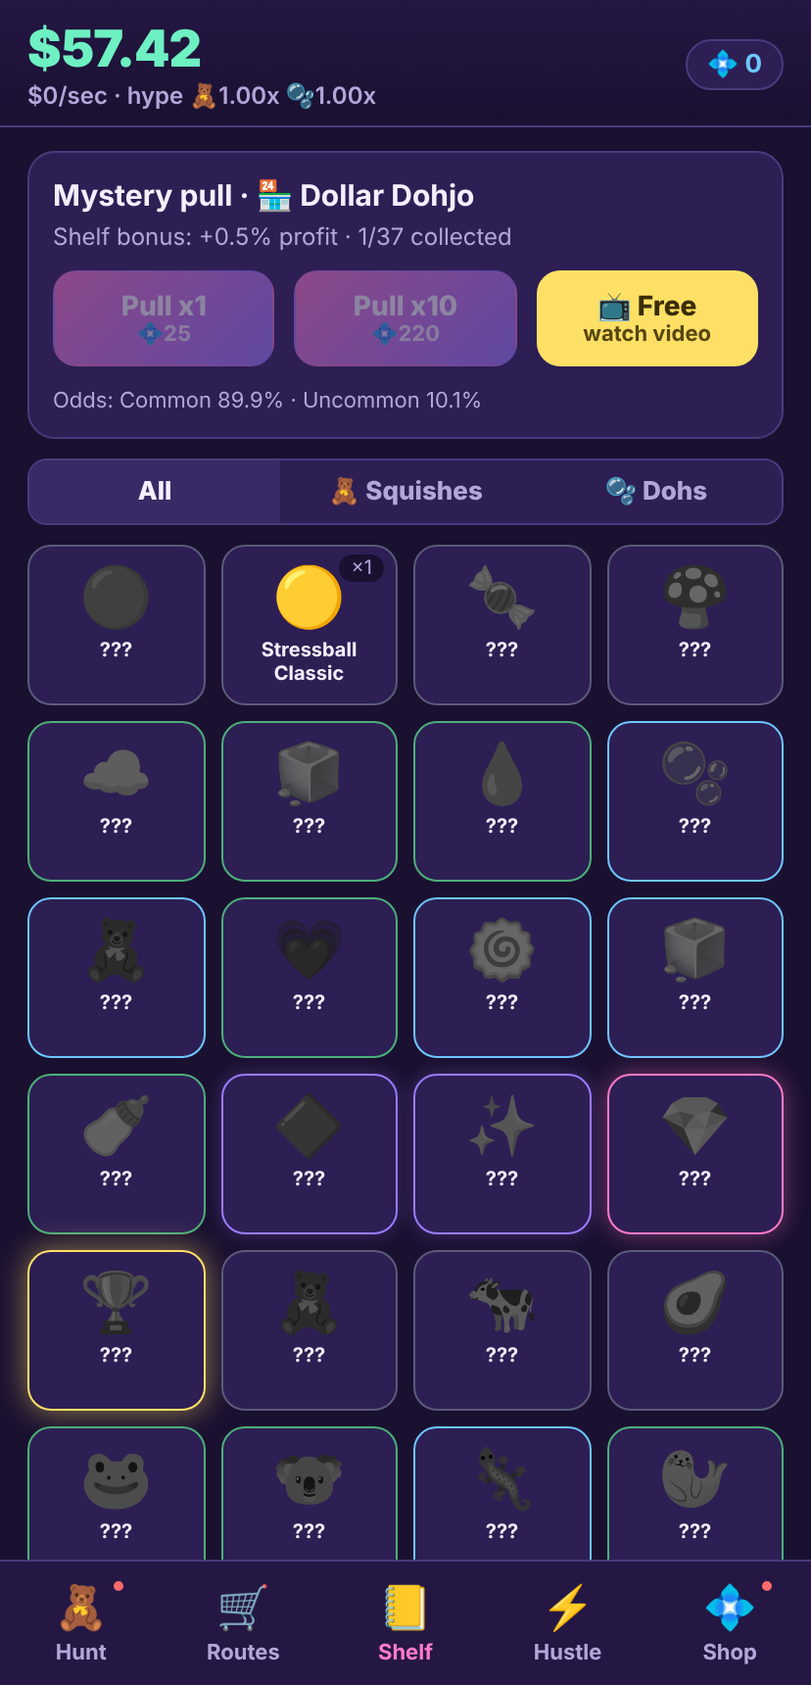
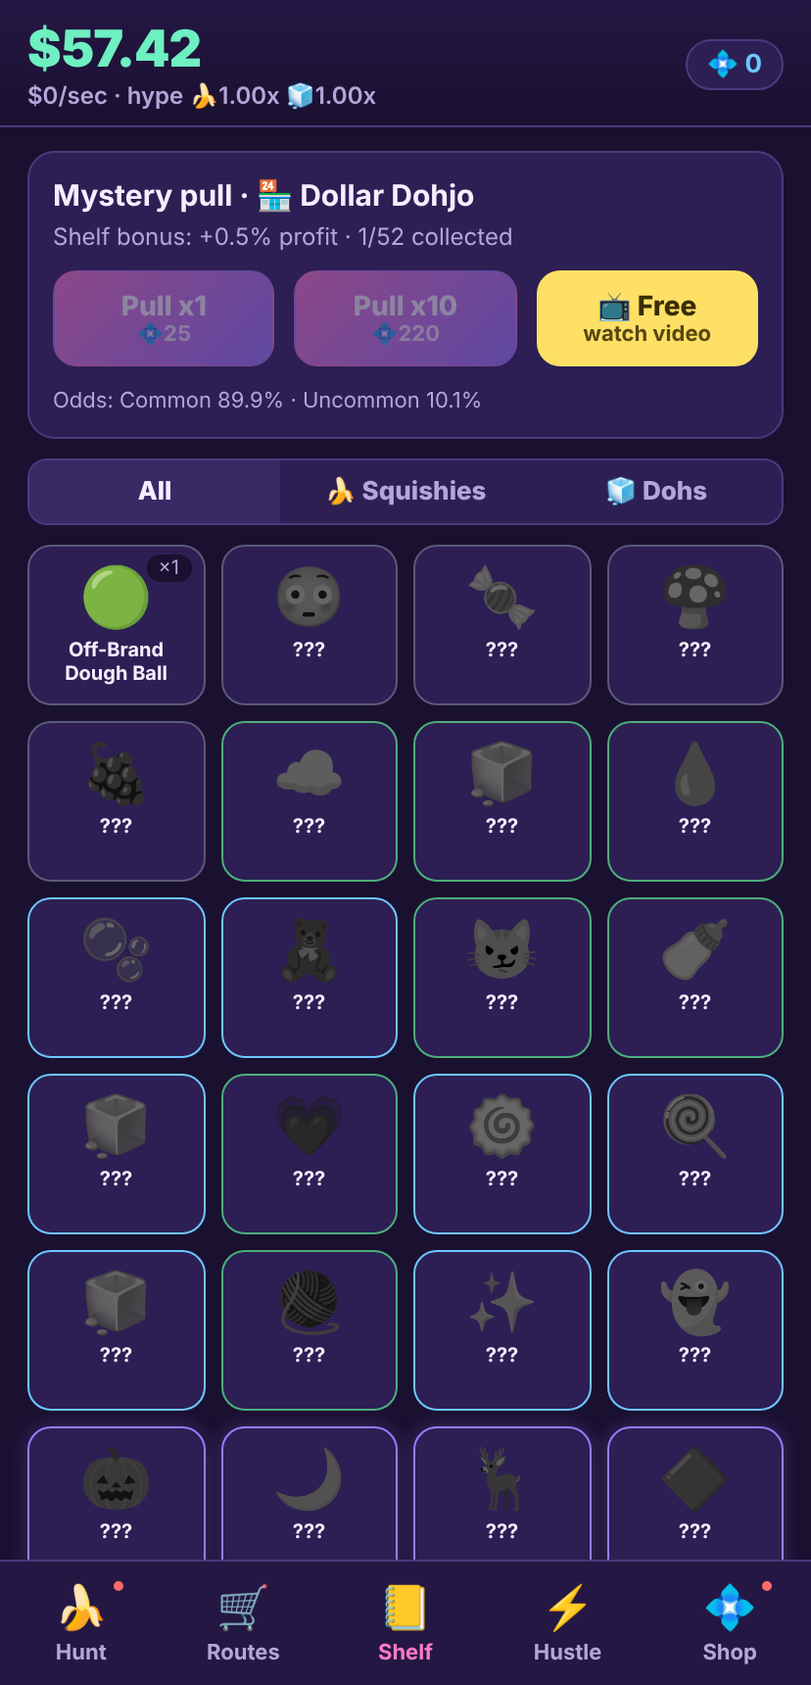
Scalp Street: make every item a squeezy fidget (dohs and squishies)
Replace the plush half of the catalog with the slow-rise and jumbo squeezy
toys of 2026: the viral 14 to 17 inch bananas, cheese cubes, butter sticks,
blind-box dumplings, mochi minis, Smusher sets, and expand the doh family
with the real lineup parodies including the Needohween and Squishmas
drops. 52 items total. Update store taglines, event copy, icons, docs and
tests to match.

Claude-Session: https://claude.ai/code/session_01MZnGvyVSyAsA5yFMotXPV8

diff --git a/scalp-street/src/engine/data/items.ts b/scalp-street/src/engine/data/items.ts
@@ -7,9 +7,13 @@ export const RARITY_LABEL: Record<Rarity, string> = {
   uncommon: 'Uncommon',
   rare: 'Rare',
   ultra: 'Ultra Rare',
-  select: 'Select Series',
+  select: 'Limited Run',
   grail: 'Grail',
 };
+
+/** Display names for the two product families. */
+export const FAMILY_LABEL = { squish: 'Squishies', doh: 'Dohs' } as const;
+export const FAMILY_ICON = { squish: '🍌', doh: '🧊' } as const;
 
 /** Shelf bonus: each unique item owned adds this % to global profit. */
 export const RARITY_SHELF_BONUS: Record<Rarity, number> = {
@@ -22,71 +26,75 @@ export const RARITY_SHELF_BONUS: Record<Rarity, number> = {
 };
 
 const squish = (
-  id: string,
-  name: string,
-  rarity: Rarity,
-  icon: string,
-  retail: number,
-  resaleMult: number,
-  storeId: string,
-  blurb: string,
+  id: string, name: string, rarity: Rarity, icon: string, retail: number, resaleMult: number, storeId: string, blurb: string,
 ): ItemDef => ({ id, name, family: 'squish', rarity, icon, retail, resaleMult, storeId, blurb });
 
 const doh = (
-  id: string,
-  name: string,
-  rarity: Rarity,
-  icon: string,
-  retail: number,
-  resaleMult: number,
-  storeId: string,
-  blurb: string,
+  id: string, name: string, rarity: Rarity, icon: string, retail: number, resaleMult: number, storeId: string, blurb: string,
 ): ItemDef => ({ id, name, family: 'doh', rarity, icon, retail, resaleMult, storeId, blurb });
 
-// Item names are affectionate parodies of real squish plush and doh fidget
-// lines. Resale multipliers follow the real secondary market research:
-// commons move near retail, grails go 50-500x.
+// Two families of squeezable fidgets, both affectionate parodies of real
+// lines. Dohs are the stretchy-dough globs and cubes that caused the 2026
+// shortage. Squishies are the slow-rise and jumbo squeezy toys: the viral
+// 14 to 17 inch bananas, cheese cubes, butter sticks, blind-box dumplings,
+// mochi minis and the sold-out Smusher sets. Resale multipliers follow the
+// research: commons move near retail, grails go 50x to 300x.
 export const ITEMS: ItemDef[] = [
-  // ---- Dohs (fidget squeezies) ----
-  doh('doh_generic', 'Off-Brand Squeezie', 'common', '🟢', 1, 0.8, 'dollar', 'It leaks. It is sticky. It is one dollar.'),
-  doh('doh_stressball', 'Stressball Classic', 'common', '🟡', 2, 1.1, 'dollar', 'The one from the dentist\'s office.'),
+  // ---- Dohs (stretchy dough globs and cubes) ----
+  doh('doh_generic', 'Off-Brand Dough Ball', 'common', '🟢', 1, 0.8, 'dollar', 'It leaks. It is sticky. It is one dollar.'),
+  doh('doh_panic', 'Panic Pete', 'common', '😳', 3, 1.2, 'dollar', 'Squeeze him and his eyes pop out. Relatable.'),
   doh('doh_gumdrop', 'Gumdrop', 'common', '🍬', 6, 1.5, 'fiveunder', 'Translucent, jiggly, and gone from every shelf in the county.'),
   doh('doh_shroom', 'Groovy Shroom', 'common', '🍄', 5, 1.4, 'fiveunder', 'Squeeze it and it mushrooms. Literally.'),
+  doh('doh_fruit', 'Groovy Fruit', 'common', '🍇', 5, 1.3, 'fiveunder', 'A grape that stretches to your elbow.'),
   doh('doh_cloud', 'Cloud Pleaser', 'uncommon', '☁', 6, 2.0, 'fiveunder', 'Soft like a cloud. Rare like a parking spot on Drop Day.'),
   doh('doh_kube', 'Nice Kube', 'uncommon', '🧊', 6, 3.0, 'fiveunder', 'The cube that started the shortage. 2 per family limit.'),
   doh('doh_dreamdrip', 'Dream Drip', 'uncommon', '💧', 6, 2.8, 'fiveunder', 'Shaped like a drip. Priced like a dream on resale.'),
   doh('doh_glob', 'Groovy Glob', 'rare', '🫧', 7, 3.5, 'wallymart', 'A glob with attitude. Sells in nine seconds.'),
   doh('doh_gummie', 'Gummie Bear', 'rare', '🧸', 7, 3.2, 'wallymart', 'Bear-shaped, bear-market proof.'),
-  doh('doh_heart', 'Color Change Heart', 'uncommon', '💗', 5, 2.2, 'hallmarq', 'Warms in your hand. Cools in a scalper\'s cart.'),
-  doh('doh_swirl', 'Candy Swirl Kube', 'rare', '🍥', 8, 5.0, 'hallmarq', 'Only the card shop gets these. Only you know that.'),
-  doh('doh_berg', 'Nice Burg', 'rare', '🧊', 13, 3.0, 'hallmarq', 'The big cube. Titanic demand.'),
+  doh('doh_coolkat', 'Groovy Cool Kat', 'uncommon', '😼', 6, 2.4, 'wallymart', 'Sunglasses on a dough cat. Peak 2026.'),
   doh('doh_teenie', 'Teenie Ice Baby', 'uncommon', '🍼', 8, 2.5, 'wallymart', 'Half the size, all of the hype.'),
+  doh('doh_iceb', 'Nice Ice Baby', 'rare', '🧊', 8, 3.4, 'wallymart', 'Semi-transparent. Stretches. Always bounces back. Unlike your bank account.'),
+  doh('doh_heart', 'Color Change Heart', 'uncommon', '💗', 5, 2.2, 'hallmarq', 'Warms in your hand. Cools in a scalper\'s cart.'),
+  doh('doh_swirl', 'Nice Kube Swirl', 'rare', '🍥', 8, 5.0, 'hallmarq', 'Only the card shop gets these. Only you know that.'),
+  doh('doh_candy', 'Candy Swirl Kube', 'rare', '🍭', 8, 5.5, 'hallmarq', 'Spotted at the card shop with a 2-per-person sign taped to the bin.'),
+  doh('doh_berg', 'Nice Burg', 'rare', '🧊', 13, 3.0, 'hallmarq', 'The jumbo cube. Titanic demand.'),
+  doh('doh_knitten', 'Knitten', 'uncommon', '🧶', 7, 2.6, 'hallmarq', 'A dough kitten in a Christmas sweater. Squishmas exclusive.'),
+  doh('doh_glitter', 'Glitter Kube', 'rare', '✨', 8, 4.0, 'wholesale', 'Sparkles when squeezed. Also when listed.'),
+  doh('doh_ghost', 'Glowy Ghost', 'rare', '👻', 7, 4.5, 'wholesale', 'Needohween drop. Glows. Haunts your inventory spreadsheet.'),
+  doh('doh_lantern', 'Jack-Glow-Lantern', 'ultra', '🎃', 8, 7.0, 'wholesale', 'Seasonal, glow in the dark, sold out before October.'),
+  doh('doh_glow', 'Glow Glob', 'ultra', '🌙', 9, 9.0, 'claw', 'Glows in the dark, like your resale listings at 3am.'),
+  doh('doh_reindeer', 'Squisher the Reindeer', 'ultra', '🦌', 9, 8.0, 'claw', 'Squishmas 2026. Red nose, zero restocks.'),
   doh('doh_superkube', 'Super Nice Kube', 'ultra', '🔷', 15, 8.0, 'botfarm', 'Limited run. Serial numbered. Already in a bot cart.'),
-  doh('doh_glow', 'Glow Glob', 'ultra', '✨', 9, 9.0, 'claw', 'Glows in the dark, like your resale listings at 3am.'),
+  doh('doh_snowglobe', 'Dough Snow Globe', 'select', '🔮', 12, 20.0, 'botfarm', 'A snow globe you can squeeze. Online-only. Carted in 0.4 seconds.'),
+  doh('doh_advent', 'Squish-O-Ween Countdown', 'select', '📅', 30, 15.0, 'con', '24 doors of dough. Scalpers open door one and relist the rest.'),
   doh('doh_holo', 'Holo Kube', 'select', '💎', 12, 25.0, 'con', 'Convention exclusive. 500 made. 499 flipped.'),
   doh('doh_proto', 'Prototype Kube', 'grail', '🏆', 6, 150.0, 'factory', 'Never released. Walked out of the factory in a coat pocket.'),
 
-  // ---- Squishes (plush) ----
-  squish('sq_knockoff', 'Mystery Bin Plush', 'common', '🧸', 5, 0.9, 'dollar', 'Nobody knows what animal it is.'),
-  squish('sq_pattie', 'Pattie the Cow', 'common', '🐄', 12, 1.3, 'bullseye', 'The entry-level cow. Everyone has her. Everyone still buys her.'),
-  squish('sq_ava', 'Ava the Avocado', 'common', '🥑', 12, 1.2, 'bullseye', 'Half fruit, half pillow, all shelf-filler.'),
-  squish('sq_mal', 'Mal the Frog', 'uncommon', '🐸', 15, 1.8, 'bullseye', 'Green. Round. Endcap bait.'),
-  squish('sq_kam', 'Kam the Koala', 'uncommon', '🐨', 15, 2.0, 'bullseye', 'Ultra chill. Ultra listed on resale.'),
-  squish('sq_archie', 'Archie the Axolotl', 'rare', '🦎', 20, 3.0, 'bullseye', 'Pink. Smiling. The face that launched a thousand ISO posts.'),
-  squish('sq_bubba', 'Bubba the Sea Lion', 'uncommon', '🦭', 15, 2.1, 'wallymart', 'Barks when squeezed. Not really. But imagine.'),
-  squish('sq_wisterria', 'Wisterria the Cow', 'rare', '🌸', 25, 4.0, 'wallymart', 'Periwinkle, floral belly, sold out in an hour. The spring grail.'),
-  squish('sq_lamb', 'Metallic-Ear Lamb', 'rare', '🐑', 25, 3.8, 'wallymart', 'Pastel lamb. Metallic ears. Pharmacy exclusive.'),
-  squish('sq_jumbo', '16-inch Floral Belly', 'rare', '🌼', 40, 2.8, 'wholesale', 'Takes up the whole back seat. Worth it.'),
-  squish('sq_pallet', '24-inch Pallet Squish', 'ultra', '🛏', 70, 3.5, 'wholesale', 'Bigger than a toddler. Ships worse than a fridge.'),
-  squish('sq_clipon', 'Clip-On Egg Squish', 'uncommon', '🥚', 8, 2.4, 'wholesale', 'Keychain-sized. Fits in a jacket. Very fits in a jacket.'),
-  squish('sq_fanya', 'Fanya the Purple Owl', 'ultra', '🦉', 15, 60.0, 'claw', 'Once hit $2,999 at auction. Then they re-released her. Oof.'),
-  squish('sq_claw', 'Claw Prize Axolotl', 'rare', '🎀', 10, 4.5, 'claw', 'Only drops from the claw. The claw is a liar.'),
-  squish('sq_lullabi', 'Lullabi the Hummingbird', 'ultra', '🐦', 25, 12.0, 'botfarm', 'Online-only spring exclusive. Carted in 0.4 seconds.'),
-  squish('sq_bibi', 'Bibi the Pastel Bunny', 'rare', '🐰', 20, 5.0, 'botfarm', '12-inch Easter line. Gone before the eggs.'),
-  squish('sq_founder', 'Founders Edition Cat', 'select', '🐈', 30, 80.0, 'con', 'Numbered. Tagged. Sealed in a bag you refuse to open.'),
-  squish('sq_jax', 'Jax the Black Cat', 'grail', '🐈⬛', 20, 125.0, 'con', '500 made. The one. The grail. Tag intact or it didn\'t happen.'),
-  squish('sq_jsk', 'JSK the Cat', 'grail', '👑', 20, 335.0, 'factory', 'Highest confirmed sale ever. Six figures of clout.'),
-  squish('sq_sample', 'Factory Sample Cow', 'select', '🏷', 12, 90.0, 'factory', 'Pre-production. Tag says SAMPLE. Buyers say YES.'),
+  // ---- Squishies (slow-rise and jumbo squeezies) ----
+  squish('sq_mochi', 'Mochi Mini', 'common', '🍡', 0.3, 1.0, 'dollar', 'Thirty for eight bucks. Lose twenty-nine in the couch.'),
+  squish('sq_stress', 'Smiley Stress Ball', 'common', '🙂', 2, 1.1, 'dollar', 'The one from the dentist\'s office.'),
+  squish('sq_butter', 'Butter Stick Slow-Rise', 'common', '🧈', 5, 1.5, 'fiveunder', 'Press it flat. Watch it ooze back. Repeat for six hours.'),
+  squish('sq_cheese', 'Cheeze Kube', 'uncommon', '🧀', 6, 2.4, 'fiveunder', 'Climbing the charts while the dohs are sold out. Holes included.'),
+  squish('sq_dumpling', 'Blind-Box Dumpling', 'uncommon', '🥟', 5, 2.8, 'fiveunder', 'Comes in a tiny steamer. You will buy the whole case for the chase.'),
+  squish('sq_toast', 'Slow-Rise Toast', 'common', '🍞', 6, 1.4, 'bullseye', 'Smells like vanilla. Tastes like regret. Do not eat.'),
+  squish('sq_avocado', 'Avocado Squeezy', 'uncommon', '🥑', 8, 1.9, 'bullseye', 'Half fruit, half stress relief, all shelf filler.'),
+  squish('sq_nana', 'Jumbo Squeezy Nana', 'rare', '🍌', 13, 1.8, 'bullseye', 'Fourteen inches of banana weirdness. Blame the algorithm.'),
+  squish('sq_laffy', 'Laffy Snack Nana', 'rare', '🍌', 15, 2.2, 'wallymart', 'The 17-inch one. "Sold out on TikTok" is part of the listing title now.'),
+  squish('sq_taba', 'Taba Pillow Squish', 'uncommon', '🫧', 9, 2.0, 'wallymart', 'Pillowy. Zero resistance. The doh alternative for soft people.'),
+  squish('sq_megaball', 'Mega Squeezy Ball (Silver)', 'ultra', '🪩', 20, 4.5, 'wallymart', 'Mega. Huge. Sealed. Silver. Rare, allegedly.'),
+  squish('sq_strawb', 'Strawberry Mochi Jumbo', 'uncommon', '🍓', 10, 2.0, 'wholesale', 'Mochi, but the size of your head.'),
+  squish('sq_nana17', '17-inch Smush Nana', 'ultra', '🍌', 25, 2.5, 'wholesale', 'The big one. Ships worse than a fridge. Buyers do not care.'),
+  squish('sq_smusher', 'Smusher 5-Pack', 'select', '🎨', 40, 3.0, 'wholesale', 'Five colors, one box, out of stock everywhere. Set sold for triple digits.'),
+  squish('sq_corn', 'Jumbo Corn Cob', 'rare', '🌽', 14, 2.4, 'claw', 'Kernels are individually squishy. Someone engineered this.'),
+  squish('sq_peach', 'Peach Butt Squeezy', 'rare', '🍑', 12, 2.6, 'claw', 'You know exactly why it sells.'),
+  squish('sq_clawcat', 'Claw Prize Mochi Cat', 'rare', '🐱', 4, 6.0, 'claw', 'Only drops from the claw. The claw is a liar.'),
+  squish('sq_glownana', 'Glow Nana', 'ultra', '🌙', 18, 4.0, 'claw', 'Glows green in the dark. So does your eBay dashboard.'),
+  squish('sq_bluecheese', 'Online-Only Blue Cheeze', 'ultra', '🫐', 8, 10.0, 'botfarm', 'Drop-only colorway. Bots ate the whole wheel.'),
+  squish('sq_goldumpling', 'Secret Golden Dumpling', 'rare', '🥇', 5, 12.0, 'botfarm', 'One per case. The steamer lid is the tell.'),
+  squish('sq_chrome', 'Con Chrome Smusher', 'select', '🪞', 25, 20.0, 'con', 'Booth exclusive. Mirror finish. Wristband line started at 4am.'),
+  squish('sq_signed', 'Creator-Signed Nana', 'grail', '✍', 15, 120.0, 'con', 'Signed by the account that made bananas a personality.'),
+  squish('sq_sample', 'Factory Sample Nana', 'select', '🏷', 13, 60.0, 'factory', 'Pre-production. Tag says SAMPLE. Buyers say YES.'),
+  squish('sq_golden', 'Golden Nana (1 of 100)', 'grail', '👑', 13, 300.0, 'factory', 'Numbered. Gilded. The banana. Keep it sealed or it didn\'t happen.'),
 ];
 
 export const ITEM_BY_ID: Record<string, ItemDef> = Object.fromEntries(ITEMS.map((i) => [i.id, i]));

diff --git a/scalp-street/src/engine/data/upgrades.ts b/scalp-street/src/engine/data/upgrades.ts
@@ -30,8 +30,8 @@ const globalCash: UpgradeDef[] = [
   { id: 'u_van', name: 'Cargo Van', blurb: 'Hit six stores before lunch.', icon: '🚐', cost: 60_000_000, currency: 'cash', effect: { kind: 'globalSpeed', mult: 1.5 } },
   { id: 'u_llc', name: 'Form an LLC', blurb: '"Oh I run a small business." Taxes get cheaper.', icon: '🏢', cost: 900_000_000, currency: 'cash', effect: { kind: 'globalProfit', mult: 3 } },
   { id: 'u_warehouse', name: 'Fulfillment Warehouse', blurb: 'Someone else packs boxes now. You "manage".', icon: '🏭', cost: 40_000_000_000, currency: 'cash', effect: { kind: 'globalProfit', mult: 5 } },
-  { id: 'u_squishlove', name: 'Squish Whisperer', blurb: 'You can spot a mis-stitched tag from across the aisle.', icon: '🧸', cost: 20_000_000, currency: 'cash', effect: { kind: 'familyProfit', family: 'squish', mult: 2 } },
-  { id: 'u_dohlove', name: 'Doh Dealer', blurb: 'Your name is known in every fidget Facebook group.', icon: '🫧', cost: 20_000_000, currency: 'cash', effect: { kind: 'familyProfit', family: 'doh', mult: 2 } },
+  { id: 'u_squishlove', name: 'Slow-Rise Sommelier', blurb: 'You can tell a true slow-rise from a fast-rise across the aisle.', icon: '🍌', cost: 20_000_000, currency: 'cash', effect: { kind: 'familyProfit', family: 'squish', mult: 2 } },
+  { id: 'u_dohlove', name: 'Doh Dealer', blurb: 'Your name is known in every dough-cube Facebook group.', icon: '🧊', cost: 20_000_000, currency: 'cash', effect: { kind: 'familyProfit', family: 'doh', mult: 2 } },
   { id: 'u_tap1', name: 'Faster Thumbs', blurb: 'Tapping the shelf finds more loot.', icon: '👍', cost: 500, currency: 'cash', effect: { kind: 'tapPower', mult: 2 } },
   { id: 'u_tap2', name: 'Two-Hand Technique', blurb: 'Grab with both arms. Shelves fear you.', icon: '🙌', cost: 50_000, currency: 'cash', effect: { kind: 'tapPower', mult: 3 } },
   { id: 'u_tap3', name: 'Shopping Cart Sprint', blurb: 'Olympic-grade cart speed.', icon: '🏃', cost: 5_000_000, currency: 'cash', effect: { kind: 'tapPower', mult: 5 } },

diff --git a/scalp-street/src/engine/data/achievements.ts b/scalp-street/src/engine/data/achievements.ts
@@ -20,9 +20,9 @@ export const ACHIEVEMENTS: AchievementDef[] = [
   { id: 'a_managers', name: 'Delegator', blurb: 'Hire every manager.', icon: '👔', clout: 30, check: (s) => STORES.every((st) => s.stores[st.id]?.manager) },
   { id: 'a_pull10', name: 'Blind Bag Addict', blurb: 'Open 10 mystery pulls.', icon: '🎁', clout: 5, check: (s) => s.stats.pulls >= 10 },
   { id: 'a_pull100', name: 'Gambling, But Cute', blurb: 'Open 100 mystery pulls.', icon: '🎰', clout: 20, check: (s) => s.stats.pulls >= 100 },
-  { id: 'a_rare', name: 'Tag Intact', blurb: 'Own a Rare item.', icon: '🏷', clout: 5, check: (s) => ITEMS.some((i) => i.rarity === 'rare' && s.shelf[i.id]) },
+  { id: 'a_rare', name: 'Still In The Bag', blurb: 'Own a Rare item.', icon: '🏷', clout: 5, check: (s) => ITEMS.some((i) => i.rarity === 'rare' && s.shelf[i.id]) },
   { id: 'a_ultra', name: 'ISO Fulfilled', blurb: 'Own an Ultra Rare item.', icon: '💎', clout: 15, check: (s) => ITEMS.some((i) => i.rarity === 'ultra' && s.shelf[i.id]) },
-  { id: 'a_select', name: 'Select Company', blurb: 'Own a Select Series item.', icon: '🔮', clout: 30, check: (s) => ITEMS.some((i) => i.rarity === 'select' && s.shelf[i.id]) },
+  { id: 'a_select', name: 'Limited Company', blurb: 'Own a Limited Run item.', icon: '🔮', clout: 30, check: (s) => ITEMS.some((i) => i.rarity === 'select' && s.shelf[i.id]) },
   { id: 'a_grail', name: 'Holy Grail', blurb: 'Own a Grail.', icon: '🏆', clout: 60, check: (s) => ITEMS.some((i) => i.rarity === 'grail' && s.shelf[i.id]) },
   { id: 'a_shelf_half', name: 'Half the Binder', blurb: 'Collect half of all items.', icon: '📒', clout: 40, check: (s) => Object.keys(s.shelf).filter((k) => s.shelf[k] > 0).length >= Math.ceil(ITEMS.length / 2) },
   { id: 'a_shelf_full', name: 'Completionist', blurb: 'Collect every item.', icon: '🥇', clout: 150, check: (s) => ITEMS.every((i) => s.shelf[i.id] > 0) },

diff --git a/scalp-street/src/engine/data/stores.ts b/scalp-street/src/engine/data/stores.ts
@@ -7,7 +7,7 @@ export const STORES: StoreDef[] = [
   {
     id: 'dollar',
     name: 'Dollar Dohjo',
-    tagline: 'Bins of off-brand squeezies. Somebody has to start somewhere.',
+    tagline: 'Bins of off-brand dough balls and mochi minis. Somebody has to start somewhere.',
     icon: '🏪',
     family: 'doh',
     baseCost: 4,
@@ -33,7 +33,7 @@ export const STORES: StoreDef[] = [
   {
     id: 'bullseye',
     name: 'Bullseye',
-    tagline: 'Endcap squishes restock Tuesdays at 7am. You know this. Everyone knows this.',
+    tagline: 'Jumbo bananas restock Tuesdays at 7am. You know this. Everyone knows this.',
     icon: '🎯',
     family: 'squish',
     baseCost: 1_024,
@@ -46,7 +46,7 @@ export const STORES: StoreDef[] = [
   {
     id: 'wallymart',
     name: 'WallyMart',
-    tagline: 'Twenty-four hour squish aisle. Twenty-four hour you.',
+    tagline: 'Twenty-four hour fidget aisle. Twenty-four hour you.',
     icon: '🏬',
     family: 'mixed',
     baseCost: 16_384,
@@ -72,7 +72,7 @@ export const STORES: StoreDef[] = [
   {
     id: 'wholesale',
     name: 'Wholesale Club',
-    tagline: 'Eight-packs of 16-inch squishes on a pallet. Bring the minivan.',
+    tagline: '17-inch bananas and Smusher 5-packs by the pallet. Bring the minivan.',
     icon: '📦',
     family: 'squish',
     baseCost: 4_194_304,
@@ -85,7 +85,7 @@ export const STORES: StoreDef[] = [
   {
     id: 'claw',
     name: 'Claw Arcade',
-    tagline: 'Rigged machines full of 5-inch squishes. You are more rigged.',
+    tagline: 'Rigged machines full of mochi cats and glow globs. You are more rigged.',
     icon: '🕹',
     family: 'squish',
     baseCost: 67_108_864,

diff --git a/scalp-street/src/engine/data/shop.ts b/scalp-street/src/engine/data/shop.ts
@@ -27,7 +27,7 @@ export const PRODUCTS: Product[] = [
   { id: 'ss_starter', kind: 'starter', name: 'Starter Hustle Pack', blurb: '300 Clout + 2h income + 5 pulls + No Ads for 7 days. Best value, one time only.', icon: '🎒', priceUsd: 2.99, clout: 300, incomeHours: 2, pulls: 5, badge: '-85%', oneTime: true },
   { id: 'ss_noads', kind: 'noAds', name: 'Remove Ads', blurb: 'No interstitials, ever. Rewarded boosts become free instant claims.', icon: '🚫', priceUsd: 4.99, oneTime: true },
   { id: 'ss_vip', kind: 'vip', name: 'VIP Flipper', blurb: 'Weekly: x2 permanent profit, +4h offline cap, 20 Clout/day, no ads.', icon: '👑', priceUsd: 4.99, periodDays: 7, badge: 'Most popular' },
-  { id: 'ss_pass', kind: 'pass', name: 'Hustle Pass Premium', blurb: 'Unlock the premium track: 3x rewards and the Holo Kube at tier 30.', icon: '🎫', priceUsd: 9.99, oneTime: true },
+  { id: 'ss_pass', kind: 'pass', name: 'Hustle Pass Premium', blurb: 'Unlock the premium track: 3x rewards and the exclusive Holo Kube at tier 30.', icon: '🎫', priceUsd: 9.99, oneTime: true },
   { id: 'ss_clout_s', kind: 'clout', name: 'Pocket Clout', blurb: '120 Clout', icon: '💠', priceUsd: 1.99, clout: 120 },
   { id: 'ss_clout_m', kind: 'clout', name: 'Bag of Clout', blurb: '700 Clout', icon: '💠', priceUsd: 9.99, clout: 700, badge: '+17%' },
   { id: 'ss_clout_l', kind: 'clout', name: 'Crate of Clout', blurb: '1,600 Clout', icon: '💠', priceUsd: 19.99, clout: 1600, badge: '+33%' },

diff --git a/scalp-street/tests/engine.test.ts b/scalp-street/tests/engine.test.ts
@@ -135,14 +135,14 @@ describe('prestige', () => {
     s.cash = 5e8;
     s.stores.bullseye.units = 50;
     s.upgrades.push('u_shipping', 'p_profit');
-    s.shelf.sq_jax = 1;
+    s.shelf.sq_golden = 1;
     const gained = prestige(s, T0);
     expect(gained).toBe(501);
     expect(s.cred).toBe(501);
     expect(s.cash).toBe(10);
     expect(s.stores.bullseye.units).toBe(0);
     expect(s.upgrades).toEqual(['p_profit']);
-    expect(s.shelf.sq_jax).toBe(1);
+    expect(s.shelf.sq_golden).toBe(1);
     expect(computeModifiers(s, T0).credMult).toBeCloseTo(1 + 501 * 0.02, 6);
   });
 });
@@ -225,7 +225,7 @@ describe('monetization', () => {
     const before = s.cash;
     applyProduct(s, 'ss_bundle_drop', T0);
     expect(s.cash).toBeGreaterThan(before);
-    expect(s.stats.pulls).toBe(10);
+    expect(s.stats.pulls).toBe(15);
     applyProduct(s, 'ss_pass', T0);
     expect(s.pass.premium).toBe(true);
   });

diff --git a/scalp-street/src/engine/data/events.ts b/scalp-street/src/engine/data/events.ts
@@ -16,7 +16,7 @@ export const EVENTS: Record<MarketEventKind, MarketEventDef> = {
   viral: {
     kind: 'viral',
     name: 'Viral Video',
-    blurb: 'A teen squeezed a Nice Kube on camera. Doh demand doubles.',
+    blurb: 'A teen squeezed a Nice Kube on camera for 40 seconds. Doh demand doubles.',
     icon: '📱',
     durationSeconds: 180,
     profitMult: 2,
@@ -25,8 +25,8 @@ export const EVENTS: Record<MarketEventKind, MarketEventDef> = {
   },
   holiday: {
     kind: 'holiday',
-    name: 'Holiday Squad',
-    blurb: 'Seasonal squishes land. Squish resale doubles and moves faster.',
+    name: 'Squishmas Drop',
+    blurb: 'Seasonal jumbo bananas and glow squishies land. Squishy resale doubles and moves faster.',
     icon: '🎄',
     durationSeconds: 180,
     profitMult: 2,

diff --git a/scalp-street/index.html b/scalp-street/index.html
@@ -6,7 +6,7 @@
     <meta name="theme-color" content="#1a1030" />
     <meta name="apple-mobile-web-app-capable" content="yes" />
     <meta name="apple-mobile-web-app-status-bar-style" content="black-translucent" />
-    <meta name="description" content="Scalp Street: an idle flipping tycoon. Camp the drops, hoard the squishes, flip the dohs, get banned, relocate, repeat." />
+    <meta name="description" content="Scalp Street: an idle flipping tycoon. Camp the drops, hoard the jumbo bananas, flip the dough cubes, get banned, relocate, repeat." />
     <link rel="manifest" href="./manifest.webmanifest" />
     <link rel="icon" href="./icon.svg" type="image/svg+xml" />
     <link rel="apple-touch-icon" href="./icon.svg" />

diff --git a/scalp-street/src/ui/Header.tsx b/scalp-street/src/ui/Header.tsx
@@ -18,7 +18,7 @@ export function Header() {
       <div className="wallet">
         <div className="grow">
           <div className="cash">{formatCash(s.cash, s.settings.notation)}</div>
-          <div className="ips">{formatCash(ips, s.settings.notation)}/sec · hype 🧸{hypeS.toFixed(2)}x 🫧{hypeD.toFixed(2)}x</div>
+          <div className="ips">{formatCash(ips, s.settings.notation)}/sec · hype 🍌{hypeS.toFixed(2)}x 🧊{hypeD.toFixed(2)}x</div>
         </div>
         <span className="pill clout">💠 {formatNumber(s.clout)}</span>
         {s.cred > 0 && <span className="pill cred">⭐ {formatNumber(s.cred)}</span>}

diff --git a/scalp-street/src/ui/HuntTab.tsx b/scalp-street/src/ui/HuntTab.tsx
@@ -54,9 +54,9 @@ export function HuntTab() {
       </div>
       <div className="shelf" onPointerDown={onTap}>
         <div className="pile-bg" aria-hidden>
-          {Array.from({ length: 24 }, (_, i) => <span key={i}>{bg[i % bg.length] ?? '🧸'}</span>)}
+          {Array.from({ length: 24 }, (_, i) => <span key={i}>{bg[(i + 1) % bg.length] ?? '🍌'}</span>)}
         </div>
-        <div className="pile">🧸</div>
+        <div className="pile">{bg[0] ?? '🍌'}</div>
         {floats.map((f) => (
           <span key={f.id} className="float" style={{ left: f.x - 20, top: f.y - 20 }}>{f.text}</span>
         ))}

diff --git a/scalp-street/src/ui/App.tsx b/scalp-street/src/ui/App.tsx
@@ -15,7 +15,7 @@ import { MISSION_POOL } from '../engine/data/missions';
 export type Tab = 'hunt' | 'stores' | 'shelf' | 'boost' | 'shop';
 
 const TABS: { id: Tab; label: string; icon: string }[] = [
-  { id: 'hunt', label: 'Hunt', icon: '🧸' },
+  { id: 'hunt', label: 'Hunt', icon: '🍌' },
   { id: 'stores', label: 'Routes', icon: '🛒' },
   { id: 'shelf', label: 'Shelf', icon: '📒' },
   { id: 'boost', label: 'Hustle', icon: '⚡' },

diff --git a/scalp-street/src/ui/ShelfTab.tsx b/scalp-street/src/ui/ShelfTab.tsx
@@ -60,7 +60,7 @@ export function ShelfTab() {
       <div className="seg">
         {(['all', 'squish', 'doh'] as const).map((f) => (
           <button key={f} className={fam === f ? 'active' : ''} onClick={() => setFam(f)}>
-            {f === 'all' ? 'All' : f === 'squish' ? '🧸 Squishes' : '🫧 Dohs'}
+            {f === 'all' ? 'All' : f === 'squish' ? '🍌 Squishies' : '🧊 Dohs'}
           </button>
         ))}
       </div>
